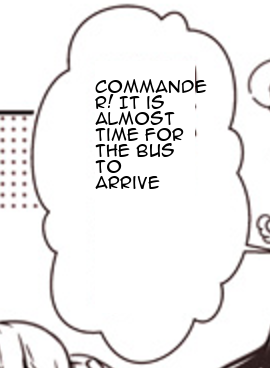
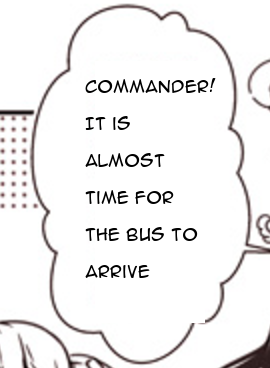
gc

diff --git a/crop.py b/crop.py
@@ -32,19 +32,20 @@ for text in texts[:1]:
 
     vertices = ([(vertex.x, vertex.y) for vertex in text.bounding_poly.vertices])
     draw.rectangle([
-        vertices[1][0], vertices[1][1],
-        vertices[3][0], vertices[3][1]], 'white', None)
+        vertices[1][0]+10, vertices[1][1],
+        vertices[3][0], vertices[3][1]+10], 'white', None)
     print('bounds: {}'.format(vertices))
-    maxwidth = abs(vertices[0][0] - vertices[2][0]);
+    maxwidth = abs(vertices[1][0] - vertices[3][0])+10;
+    maxheight = abs(vertices[1][1] - vertices[3][1])+10;
     width, height = font.getsize(translatedText)
     y_text = height
-    print(maxwidth,width,len(translatedText),(maxwidth/float(width)),maxwidth/float(width)*len(translatedText))
+    print(maxwidth/float(width)*len(translatedText))
 
-    lines = textwrap.wrap(translatedText, width=int(maxwidth/float(width)*len(translatedText)))
+    lines = textwrap.wrap(translatedText, width=int(maxwidth/float(width)*len(translatedText))+1)
     for line in lines:
         print(line)
-        draw.text((vertices[0][0], vertices[1][1] + y_text), line, font=font, fill="Black")
-        y_text += height
+        draw.text((vertices[0][0]-10, vertices[1][1] + y_text), line, font=font, fill="Black")
+        y_text += height+maxheight/len(lines)/2
 
 
 im.save('output-hint.jpg', 'Png')
